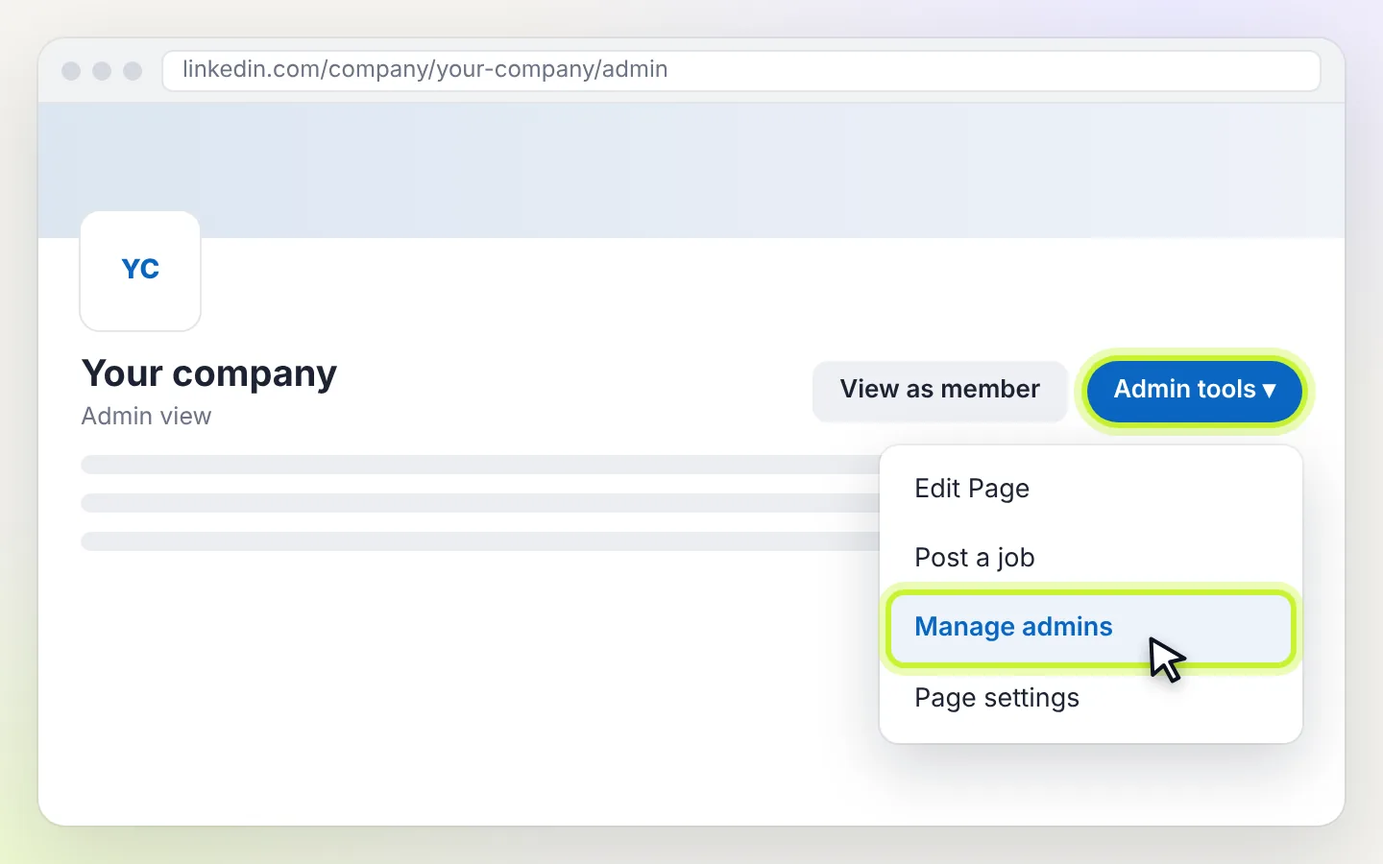
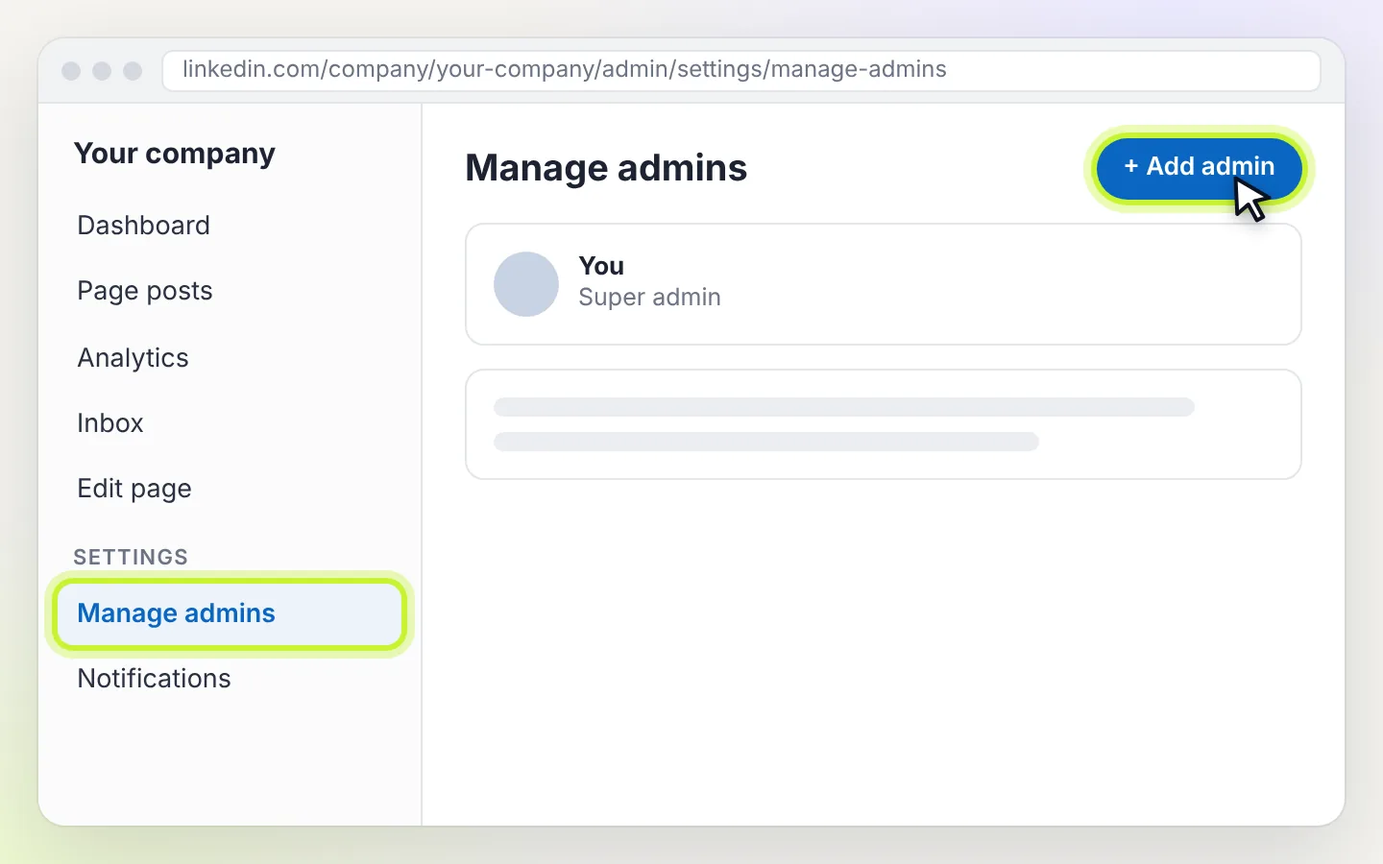
Portal LinkedIn steps: who does it, and the Nawa person to add
- Four steps: the company page's Super admin, from their personal account,
  first connects with the Nawa person (LinkedIn only lets you add your
  connections as admins); then Settings → Manage admins → + Add admin;
  searches that person by name (a person, not the «Nawa Studio» page,
  which LinkedIn never lists) and gives Content admin; then tells Nawa
- The Nawa person's name and LinkedIn profile link are set in admin
  «الإعدادات» → «معلومات التواصل» and shown in the steps with a link
- Redrawn LinkedIn illustrations: Manage admins in the page's Settings, and
  the search finding a person (1st) with Content admin chosen

Claude-Session: https://claude.ai/code/session_013mdqmQCdncwjDBDUVvHTuE

diff --git a/site/assets/js/portal.js b/site/assets/js/portal.js
@@ -2,7 +2,7 @@
 // of Facebook, Instagram, LinkedIn and TikTok, and manage content with Nawa's own tools
 // (assets/js/admin-content.js, loaded by the page in client mode).
 // Arabic by default; English and French from the switcher (remembered on this device).
-import { PLATFORMS, PLATFORM_ORDER, STATUS, LANGS, L, icon, copyButton } from './portal-schema.js?v=20261023b';
+import { PLATFORMS, PLATFORM_ORDER, STATUS, LANGS, L, icon, copyButton } from './portal-schema.js?v=20261103d';
 
 const $ = (id) => document.getElementById(id);
 const esc = (s) => String(s ?? '').replace(/[&<>"]/g, (c) => ({ '&': '&amp;', '<': '&lt;', '>': '&gt;', '"': '&quot;' })[c]);
@@ -68,7 +68,7 @@ const TS = {
     cloudSoon: 'قريبًا: تواصل مع نواة لتفعيله.', cloudNotEmpty: 'لا يمكن الإيقاف وفيه ملفات. احذفها أولًا.',
     invMonth: 'الشهر', invGb: 'متوسط التخزين', invAmount: 'المبلغ', invStatus: 'الحالة', paid: 'مدفوعة', unpaid: 'غير مدفوعة', void: 'ملغاة',
     baridimob: 'بريدي موب (RIP)', ccp: 'الحساب البريدي الجاري (CCP)', ccpName: 'الاسم', ccpAccount: 'رقم الحساب', ccpKey: 'المفتاح', redotpay: 'RedotPay', uid: 'UID', email2: 'البريد',
-    copy: 'نسخ', copied: 'نُسخ', aiTitle: 'المساعد الذكي · Claude', aiSub: 'يقترح منشورات وأنت توافق', aiOn: 'مربوط', aiLead: 'اربط Claude بحسابك ليقترح منشوراتك ويكتب نصوصها. يُنشئ Claude مسودات فقط، ولا يُنشر شيء قبل موافقتك من «المحتوى».', aiCan: 'يستطيع: قراءة تقويمك ومنصاتك، وإنشاء مسودات بنصوصها وموعد مقترح، ورفع الفيديوهات والصور إليها، وحذف المنشورات (تبقى 30 يومًا في «المحذوفات» ويمكنك استعادتها).', aiCant: 'لا يستطيع: الجدولة أو النشر، ولا رؤية المدفوعات أو الإعدادات.', aiCreate: 'إنشاء رابط Claude', aiYourLink: 'رابطك الخاص', aiOnce: 'انسخ الرابط الآن: لن يظهر مرة أخرى. عامله ككلمة سر ولا تشاركه.', aiSteps: ['افتح claude.ai ← الإعدادات (Settings) ← الموصلات (Connectors).', 'اضغط «Add custom connector»، واكتب الاسم «Nawa»، والصق الرابط، ثم «Add».', 'في محادثتك أو مشروعك، فعّل موصل Nawa من زر الأدوات.', 'اطلب مثلًا: «اقترح 3 منشورات لهذا الأسبوع وأضفها إلى نواة كمسودات».', 'ليرفع Claude الفيديوهات والصور التي ترسلها في المحادثة بنفسه: في Claude ← الإعدادات ← Capabilities، فعّل «Code execution» واسمح بالوصول إلى الشبكة («All domains»).'], aiLinked: (w, d) => `أنشأه ${w} في ${d}`, aiUsed: (d) => `آخر استعمال ${d}`, aiNever: 'لم يُستعمل بعد', aiDrafts: (n) => `${n} مسودة`, aiNew: 'رابط جديد', aiNewConfirm: 'تأكيد: الرابط القديم سيتوقف', aiRevoke: 'إلغاء الرابط', aiRevokeConfirm: 'تأكيد الإلغاء', aiPendingTitle: (n) => `${n} مقترحات من Claude بانتظار موافقتك`, prefTitle: 'أين تُحفظ الملفات الجديدة؟', prefAuto: 'تلقائي', prefAutoNote: 'Google Drive أولًا مجانًا، ثم «تخزين نواة» عند امتلائه.', prefCloud: '«تخزين نواة» دائمًا', prefCloudNote: 'كل الملفات الجديدة تُحفظ في تخزين نواة.', recommended: 'موصى به', whyTitle: 'لماذا نوصي به؟', why: ['نشر لا يتعطّل: منشوراتك المجدولة لا تتأثر بفصل Google Drive أو حذف ملف منه أو انتهاء صلاحية حساب Google.', 'مساحة Google تبقى لك: الـ15 غيغابايت المجانية مشتركة مع Gmail وصور Google.', 'كل ملفاتك في مكان واحد، وتدفع فقط مقابل ما تخزّنه.'], prefSavedAuto: 'تُحفظ الملفات الجديدة في Google Drive أولًا.', prefSavedCloud: 'تُحفظ الملفات الجديدة في «تخزين نواة».', driveAlmostCloud: (p) => `مساحة Google Drive شارفت على الامتلاء. ستُحفظ الملفات الجديدة في «تخزين نواة» بسعر ${p} دج لكل غيغابايت شهريًا.`, driveAlmostOff: 'مساحة Google Drive شارفت على الامتلاء. اختر خطة «تخزين نواة» لتواصل الرفع بعد امتلائها.', moveTitle: 'نقل ملفاتك إلى «تخزين نواة»', moveLead: (n) => `${n} ملف في Google Drive. ننسخها إلى تخزين نواة ثم ننقلها إلى سلة Drive (تبقى قابلة للاسترجاع 30 يومًا).`, moveBtn: 'انقل ملفاتي', moveConfirm: 'تأكيد النقل', moving: (a, b) => `نُقل ${a}، وبقي ${b}…`, moveDone: (n) => `نُقل ${n} ملف إلى «تخزين نواة».`, moveSome: (a, b) => `نُقل ${a} ملف، وتعذّر نقل ${b}. حاول مرة أخرى لاحقًا.`, e_cloud_off: 'فعّل «تخزين نواة» أولًا.', mark: (n) => `علّم الخطوة ${n} كمنجزة`, unmark: (n) => `ألغِ إنجاز الخطوة ${n}`, stepsCount: (a, b) => `${a} من ${b} خطوات منجزة`, afterFb: 'يُفعَّل إنستغرام عبر صفحتك على فيسبوك، فابدأ بفيسبوك أولًا.', afterFbShort: 'بعد فيسبوك', goFb: 'اذهب إلى فيسبوك', tellLead: 'أنهيت الخطوات؟ أخبرنا لنتحقق ونفعّل المنصة.', tellNawa: 'أنهيت، أخبر نواة', reviewing: 'وصلنا إشعارك ✓ نتحقق الآن ونفعّل المنصة قريبًا.', activeLine: (n) => `${n} مفعّل`, stepsAgain: 'عرض الخطوات من جديد', allSetTitle: 'كل منصاتك جاهزة 🎉', goContent: 'اذهب إلى «المحتوى»', shotOpen: 'تكبير الصورة', shotNote: 'صورة توضيحية، وقد تختلف الواجهة قليلًا.', close: 'إغلاق', d_connected: 'رُبط Google Drive.', d_denied: 'لم تكتمل الموافقة على Google Drive.', d_failed: 'تعذّر ربط Google Drive. حاول مرة أخرى.',
+    copy: 'نسخ', copied: 'نُسخ', nawaPersonFallback: 'الشخص الذي يحدده لك فريق نواة', profileLink: 'ملفه على LinkedIn', aiTitle: 'المساعد الذكي · Claude', aiSub: 'يقترح منشورات وأنت توافق', aiOn: 'مربوط', aiLead: 'اربط Claude بحسابك ليقترح منشوراتك ويكتب نصوصها. يُنشئ Claude مسودات فقط، ولا يُنشر شيء قبل موافقتك من «المحتوى».', aiCan: 'يستطيع: قراءة تقويمك ومنصاتك، وإنشاء مسودات بنصوصها وموعد مقترح، ورفع الفيديوهات والصور إليها، وحذف المنشورات (تبقى 30 يومًا في «المحذوفات» ويمكنك استعادتها).', aiCant: 'لا يستطيع: الجدولة أو النشر، ولا رؤية المدفوعات أو الإعدادات.', aiCreate: 'إنشاء رابط Claude', aiYourLink: 'رابطك الخاص', aiOnce: 'انسخ الرابط الآن: لن يظهر مرة أخرى. عامله ككلمة سر ولا تشاركه.', aiSteps: ['افتح claude.ai ← الإعدادات (Settings) ← الموصلات (Connectors).', 'اضغط «Add custom connector»، واكتب الاسم «Nawa»، والصق الرابط، ثم «Add».', 'في محادثتك أو مشروعك، فعّل موصل Nawa من زر الأدوات.', 'اطلب مثلًا: «اقترح 3 منشورات لهذا الأسبوع وأضفها إلى نواة كمسودات».', 'ليرفع Claude الفيديوهات والصور التي ترسلها في المحادثة بنفسه: في Claude ← الإعدادات ← Capabilities، فعّل «Code execution» واسمح بالوصول إلى الشبكة («All domains»).'], aiLinked: (w, d) => `أنشأه ${w} في ${d}`, aiUsed: (d) => `آخر استعمال ${d}`, aiNever: 'لم يُستعمل بعد', aiDrafts: (n) => `${n} مسودة`, aiNew: 'رابط جديد', aiNewConfirm: 'تأكيد: الرابط القديم سيتوقف', aiRevoke: 'إلغاء الرابط', aiRevokeConfirm: 'تأكيد الإلغاء', aiPendingTitle: (n) => `${n} مقترحات من Claude بانتظار موافقتك`, prefTitle: 'أين تُحفظ الملفات الجديدة؟', prefAuto: 'تلقائي', prefAutoNote: 'Google Drive أولًا مجانًا، ثم «تخزين نواة» عند امتلائه.', prefCloud: '«تخزين نواة» دائمًا', prefCloudNote: 'كل الملفات الجديدة تُحفظ في تخزين نواة.', recommended: 'موصى به', whyTitle: 'لماذا نوصي به؟', why: ['نشر لا يتعطّل: منشوراتك المجدولة لا تتأثر بفصل Google Drive أو حذف ملف منه أو انتهاء صلاحية حساب Google.', 'مساحة Google تبقى لك: الـ15 غيغابايت المجانية مشتركة مع Gmail وصور Google.', 'كل ملفاتك في مكان واحد، وتدفع فقط مقابل ما تخزّنه.'], prefSavedAuto: 'تُحفظ الملفات الجديدة في Google Drive أولًا.', prefSavedCloud: 'تُحفظ الملفات الجديدة في «تخزين نواة».', driveAlmostCloud: (p) => `مساحة Google Drive شارفت على الامتلاء. ستُحفظ الملفات الجديدة في «تخزين نواة» بسعر ${p} دج لكل غيغابايت شهريًا.`, driveAlmostOff: 'مساحة Google Drive شارفت على الامتلاء. اختر خطة «تخزين نواة» لتواصل الرفع بعد امتلائها.', moveTitle: 'نقل ملفاتك إلى «تخزين نواة»', moveLead: (n) => `${n} ملف في Google Drive. ننسخها إلى تخزين نواة ثم ننقلها إلى سلة Drive (تبقى قابلة للاسترجاع 30 يومًا).`, moveBtn: 'انقل ملفاتي', moveConfirm: 'تأكيد النقل', moving: (a, b) => `نُقل ${a}، وبقي ${b}…`, moveDone: (n) => `نُقل ${n} ملف إلى «تخزين نواة».`, moveSome: (a, b) => `نُقل ${a} ملف، وتعذّر نقل ${b}. حاول مرة أخرى لاحقًا.`, e_cloud_off: 'فعّل «تخزين نواة» أولًا.', mark: (n) => `علّم الخطوة ${n} كمنجزة`, unmark: (n) => `ألغِ إنجاز الخطوة ${n}`, stepsCount: (a, b) => `${a} من ${b} خطوات منجزة`, afterFb: 'يُفعَّل إنستغرام عبر صفحتك على فيسبوك، فابدأ بفيسبوك أولًا.', afterFbShort: 'بعد فيسبوك', goFb: 'اذهب إلى فيسبوك', tellLead: 'أنهيت الخطوات؟ أخبرنا لنتحقق ونفعّل المنصة.', tellNawa: 'أنهيت، أخبر نواة', reviewing: 'وصلنا إشعارك ✓ نتحقق الآن ونفعّل المنصة قريبًا.', activeLine: (n) => `${n} مفعّل`, stepsAgain: 'عرض الخطوات من جديد', allSetTitle: 'كل منصاتك جاهزة 🎉', goContent: 'اذهب إلى «المحتوى»', shotOpen: 'تكبير الصورة', shotNote: 'صورة توضيحية، وقد تختلف الواجهة قليلًا.', close: 'إغلاق', d_connected: 'رُبط Google Drive.', d_denied: 'لم تكتمل الموافقة على Google Drive.', d_failed: 'تعذّر ربط Google Drive. حاول مرة أخرى.',
   },
   en: {
     tabStorage: 'Storage', stTitle: 'Where your photos and videos are kept', stLead: 'We keep your files in your own Google Drive for free, up to 15 GB. Once it’s full, new files go to “Nawa storage” if you turn it on; older files stay where they are.',
@@ -86,7 +86,7 @@ const TS = {
     cloudSoon: 'Coming soon: contact Nawa to turn it on.', cloudNotEmpty: 'It can’t be turned off while files are stored. Delete them first.',
     invMonth: 'Month', invGb: 'Average stored', invAmount: 'Amount', invStatus: 'Status', paid: 'Paid', unpaid: 'Unpaid', void: 'Void',
     baridimob: 'BaridiMob (RIP)', ccp: 'Postal account (CCP)', ccpName: 'Name', ccpAccount: 'Account number', ccpKey: 'Key', redotpay: 'RedotPay', uid: 'UID', email2: 'Email',
-    copy: 'Copy', copied: 'Copied', aiTitle: 'AI assistant · Claude', aiSub: 'It suggests posts, you approve', aiOn: 'Connected', aiLead: 'Connect Claude to your account to suggest posts and write their captions. Claude only creates drafts; nothing is published until you approve it in “Content”.', aiCan: 'It can: read your calendar and platforms, create drafts with captions and a suggested time, upload videos and images to them, and delete posts (they stay 30 days in “Deleted”, where you can restore them).', aiCant: 'It can’t: schedule or publish, or see payments or settings.', aiCreate: 'Create a Claude link', aiYourLink: 'Your private link', aiOnce: 'Copy the link now: it won’t be shown again. Treat it like a password and don’t share it.', aiSteps: ['Open claude.ai → Settings → Connectors.', 'Click “Add custom connector”, name it “Nawa”, paste the link, then “Add”.', 'In your chat or project, turn on the Nawa connector from the tools button.', 'Ask for example: “Suggest 3 posts for this week and add them to Nawa as drafts.”', 'So Claude can upload the videos and images you send in the chat itself: in Claude → Settings → Capabilities, turn on “Code execution” and allow network access (“All domains”).'], aiLinked: (w, d) => `created by ${w} on ${d}`, aiUsed: (d) => `last used ${d}`, aiNever: 'not used yet', aiDrafts: (n) => `${n} drafts`, aiNew: 'New link', aiNewConfirm: 'Confirm: the old link stops', aiRevoke: 'Revoke link', aiRevokeConfirm: 'Confirm revoke', aiPendingTitle: (n) => `${n} proposals from Claude waiting for your approval`, prefTitle: 'Where should new files go?', prefAuto: 'Automatic', prefAutoNote: 'Google Drive first, for free, then Nawa Storage once it’s full.', prefCloud: 'Always Nawa Storage', prefCloudNote: 'Every new file is saved in Nawa Storage.', recommended: 'Recommended', whyTitle: 'Why we recommend it', why: ['Publishing never breaks: scheduled posts aren’t affected if Google Drive is disconnected, a file is deleted there, or the Google sign-in expires.', 'Your Google space stays yours: the free 15 GB is shared with Gmail and Google Photos.', 'All your files in one place, and you only pay for what you store.'], prefSavedAuto: 'New files go to Google Drive first.', prefSavedCloud: 'New files go to Nawa Storage.', driveAlmostCloud: (p) => `Your Google Drive is almost full. New files will go to Nawa Storage at ${p} DZD per GB per month.`, driveAlmostOff: 'Your Google Drive is almost full. Choose a Nawa Storage plan to keep uploading once it’s full.', moveTitle: 'Move your files to Nawa Storage', moveLead: (n) => `${n} files are in Google Drive. We copy them to Nawa Storage, then move them to your Drive trash (recoverable for 30 days).`, moveBtn: 'Move my files', moveConfirm: 'Confirm move', moving: (a, b) => `${a} moved, ${b} left…`, moveDone: (n) => `${n} files moved to Nawa Storage.`, moveSome: (a, b) => `${a} files moved, ${b} couldn’t be moved. Please try again later.`, e_cloud_off: 'Turn on Nawa Storage first.', mark: (n) => `Mark step ${n} as done`, unmark: (n) => `Mark step ${n} as not done`, stepsCount: (a, b) => `${a} of ${b} steps done`, afterFb: 'Instagram is activated through your Facebook Page, so start with Facebook first.', afterFbShort: 'After Facebook', goFb: 'Go to Facebook', tellLead: 'Finished the steps? Let us know and we’ll check and turn it on.', tellNawa: 'I’m done, tell Nawa', reviewing: 'We got your note ✓ We’re checking and will turn it on soon.', activeLine: (n) => `${n} is active`, stepsAgain: 'Show the steps again', allSetTitle: 'All your platforms are ready 🎉', goContent: 'Go to “Content”', shotOpen: 'Enlarge picture', shotNote: 'Illustration: the real screen may look slightly different.', close: 'Close', d_connected: 'Google Drive connected.', d_denied: 'Google Drive approval wasn’t completed.', d_failed: 'Couldn’t connect Google Drive. Please try again.',
+    copy: 'Copy', copied: 'Copied', nawaPersonFallback: 'the person the Nawa team tells you', profileLink: 'LinkedIn profile', aiTitle: 'AI assistant · Claude', aiSub: 'It suggests posts, you approve', aiOn: 'Connected', aiLead: 'Connect Claude to your account to suggest posts and write their captions. Claude only creates drafts; nothing is published until you approve it in “Content”.', aiCan: 'It can: read your calendar and platforms, create drafts with captions and a suggested time, upload videos and images to them, and delete posts (they stay 30 days in “Deleted”, where you can restore them).', aiCant: 'It can’t: schedule or publish, or see payments or settings.', aiCreate: 'Create a Claude link', aiYourLink: 'Your private link', aiOnce: 'Copy the link now: it won’t be shown again. Treat it like a password and don’t share it.', aiSteps: ['Open claude.ai → Settings → Connectors.', 'Click “Add custom connector”, name it “Nawa”, paste the link, then “Add”.', 'In your chat or project, turn on the Nawa connector from the tools button.', 'Ask for example: “Suggest 3 posts for this week and add them to Nawa as drafts.”', 'So Claude can upload the videos and images you send in the chat itself: in Claude → Settings → Capabilities, turn on “Code execution” and allow network access (“All domains”).'], aiLinked: (w, d) => `created by ${w} on ${d}`, aiUsed: (d) => `last used ${d}`, aiNever: 'not used yet', aiDrafts: (n) => `${n} drafts`, aiNew: 'New link', aiNewConfirm: 'Confirm: the old link stops', aiRevoke: 'Revoke link', aiRevokeConfirm: 'Confirm revoke', aiPendingTitle: (n) => `${n} proposals from Claude waiting for your approval`, prefTitle: 'Where should new files go?', prefAuto: 'Automatic', prefAutoNote: 'Google Drive first, for free, then Nawa Storage once it’s full.', prefCloud: 'Always Nawa Storage', prefCloudNote: 'Every new file is saved in Nawa Storage.', recommended: 'Recommended', whyTitle: 'Why we recommend it', why: ['Publishing never breaks: scheduled posts aren’t affected if Google Drive is disconnected, a file is deleted there, or the Google sign-in expires.', 'Your Google space stays yours: the free 15 GB is shared with Gmail and Google Photos.', 'All your files in one place, and you only pay for what you store.'], prefSavedAuto: 'New files go to Google Drive first.', prefSavedCloud: 'New files go to Nawa Storage.', driveAlmostCloud: (p) => `Your Google Drive is almost full. New files will go to Nawa Storage at ${p} DZD per GB per month.`, driveAlmostOff: 'Your Google Drive is almost full. Choose a Nawa Storage plan to keep uploading once it’s full.', moveTitle: 'Move your files to Nawa Storage', moveLead: (n) => `${n} files are in Google Drive. We copy them to Nawa Storage, then move them to your Drive trash (recoverable for 30 days).`, moveBtn: 'Move my files', moveConfirm: 'Confirm move', moving: (a, b) => `${a} moved, ${b} left…`, moveDone: (n) => `${n} files moved to Nawa Storage.`, moveSome: (a, b) => `${a} files moved, ${b} couldn’t be moved. Please try again later.`, e_cloud_off: 'Turn on Nawa Storage first.', mark: (n) => `Mark step ${n} as done`, unmark: (n) => `Mark step ${n} as not done`, stepsCount: (a, b) => `${a} of ${b} steps done`, afterFb: 'Instagram is activated through your Facebook Page, so start with Facebook first.', afterFbShort: 'After Facebook', goFb: 'Go to Facebook', tellLead: 'Finished the steps? Let us know and we’ll check and turn it on.', tellNawa: 'I’m done, tell Nawa', reviewing: 'We got your note ✓ We’re checking and will turn it on soon.', activeLine: (n) => `${n} is active`, stepsAgain: 'Show the steps again', allSetTitle: 'All your platforms are ready 🎉', goContent: 'Go to “Content”', shotOpen: 'Enlarge picture', shotNote: 'Illustration: the real screen may look slightly different.', close: 'Close', d_connected: 'Google Drive connected.', d_denied: 'Google Drive approval wasn’t completed.', d_failed: 'Couldn’t connect Google Drive. Please try again.',
   },
   fr: {
     tabStorage: 'Stockage', stTitle: 'Où sont gardées vos photos et vidéos', stLead: 'Nous gardons vos fichiers dans votre propre Google Drive gratuitement, jusqu’à 15 Go. Une fois plein, les nouveaux fichiers vont dans « Stockage Nawa » si vous l’activez ; les anciens restent en place.',
@@ -104,7 +104,7 @@ const TS = {
     cloudSoon: 'Bientôt : contactez Nawa pour l’activer.', cloudNotEmpty: 'Impossible de le désactiver tant que des fichiers y sont stockés.',
     invMonth: 'Mois', invGb: 'Stockage moyen', invAmount: 'Montant', invStatus: 'Statut', paid: 'Payée', unpaid: 'Non payée', void: 'Annulée',
     baridimob: 'BaridiMob (RIP)', ccp: 'Compte postal (CCP)', ccpName: 'Nom', ccpAccount: 'Numéro de compte', ccpKey: 'Clé', redotpay: 'RedotPay', uid: 'UID', email2: 'E-mail',
-    copy: 'Copier', copied: 'Copié', aiTitle: 'Assistant IA · Claude', aiSub: 'Il propose, vous validez', aiOn: 'Connecté', aiLead: 'Connectez Claude à votre compte pour proposer des publications et rédiger leurs textes. Claude ne crée que des brouillons ; rien n’est publié avant votre validation dans « Contenu ».', aiCan: 'Il peut : lire votre calendrier et vos plateformes, créer des brouillons avec textes et horaire suggéré, y importer vidéos et images, et supprimer des publications (elles restent 30 jours dans « Supprimés », restaurables).', aiCant: 'Il ne peut pas : planifier ou publier, ni voir les paiements ou les réglages.', aiCreate: 'Créer un lien Claude', aiYourLink: 'Votre lien privé', aiOnce: 'Copiez le lien maintenant : il ne sera plus affiché. Traitez-le comme un mot de passe.', aiSteps: ['Ouvrez claude.ai → Settings → Connectors.', 'Cliquez sur « Add custom connector », nommez-le « Nawa », collez le lien, puis « Add ».', 'Dans votre conversation ou projet, activez le connecteur Nawa depuis le bouton des outils.', 'Demandez par exemple : « Propose 3 publications pour cette semaine et ajoute-les à Nawa en brouillon. »', 'Pour que Claude importe lui-même les vidéos et images envoyées dans la conversation : dans Claude → Settings → Capabilities, activez « Code execution » et autorisez l’accès réseau (« All domains »).'], aiLinked: (w, d) => `créé par ${w} le ${d}`, aiUsed: (d) => `utilisé le ${d}`, aiNever: 'pas encore utilisé', aiDrafts: (n) => `${n} brouillons`, aiNew: 'Nouveau lien', aiNewConfirm: 'Confirmer : l’ancien lien s’arrête', aiRevoke: 'Révoquer le lien', aiRevokeConfirm: 'Confirmer la révocation', aiPendingTitle: (n) => `${n} propositions de Claude attendent votre validation`, prefTitle: 'Où enregistrer les nouveaux fichiers ?', prefAuto: 'Automatique', prefAutoNote: 'Google Drive d’abord, gratuitement, puis le Stockage Nawa quand il est plein.', prefCloud: 'Toujours le Stockage Nawa', prefCloudNote: 'Tous les nouveaux fichiers sont enregistrés dans le Stockage Nawa.', recommended: 'Recommandé', whyTitle: 'Pourquoi nous le recommandons', why: ['Une publication qui ne casse pas : vos publications planifiées ne sont pas touchées si Google Drive est déconnecté, si un fichier y est supprimé ou si la connexion Google expire.', 'Votre espace Google reste à vous : les 15 Go gratuits sont partagés avec Gmail et Google Photos.', 'Tous vos fichiers au même endroit, et vous ne payez que ce que vous stockez.'], prefSavedAuto: 'Les nouveaux fichiers vont d’abord dans Google Drive.', prefSavedCloud: 'Les nouveaux fichiers vont dans le Stockage Nawa.', driveAlmostCloud: (p) => `Votre Google Drive est presque plein. Les nouveaux fichiers iront dans le Stockage Nawa à ${p} DA par Go et par mois.`, driveAlmostOff: 'Votre Google Drive est presque plein. Choisissez un forfait Stockage Nawa pour continuer une fois plein.', moveTitle: 'Déplacer vos fichiers vers le Stockage Nawa', moveLead: (n) => `${n} fichiers sont dans Google Drive. Nous les copions dans le Stockage Nawa, puis les mettons dans la corbeille de Drive (récupérables 30 jours).`, moveBtn: 'Déplacer mes fichiers', moveConfirm: 'Confirmer le déplacement', moving: (a, b) => `${a} déplacés, ${b} restants…`, moveDone: (n) => `${n} fichiers déplacés vers le Stockage Nawa.`, moveSome: (a, b) => `${a} fichiers déplacés, ${b} n’ont pas pu l’être. Réessayez plus tard.`, e_cloud_off: 'Activez d’abord le Stockage Nawa.', mark: (n) => `Marquer l’étape ${n} comme faite`, unmark: (n) => `Marquer l’étape ${n} comme non faite`, stepsCount: (a, b) => `${a} étapes faites sur ${b}`, afterFb: 'Instagram s’active via votre Page Facebook : commencez par Facebook.', afterFbShort: 'Après Facebook', goFb: 'Aller à Facebook', tellLead: 'Étapes terminées ? Prévenez-nous, nous vérifions et activons la plateforme.', tellNawa: 'C’est fait, prévenir Nawa', reviewing: 'Bien reçu ✓ Nous vérifions et activons la plateforme bientôt.', activeLine: (n) => `${n} est activé`, stepsAgain: 'Revoir les étapes', allSetTitle: 'Toutes vos plateformes sont prêtes 🎉', goContent: 'Aller à « Contenu »', shotOpen: 'Agrandir l’image', shotNote: 'Illustration : l’écran réel peut légèrement différer.', close: 'Fermer', d_connected: 'Google Drive connecté.', d_denied: 'L’autorisation Google Drive n’a pas abouti.', d_failed: 'Connexion à Google Drive impossible. Réessayez.',
+    copy: 'Copier', copied: 'Copié', nawaPersonFallback: 'la personne indiquée par l’équipe Nawa', profileLink: 'profil LinkedIn', aiTitle: 'Assistant IA · Claude', aiSub: 'Il propose, vous validez', aiOn: 'Connecté', aiLead: 'Connectez Claude à votre compte pour proposer des publications et rédiger leurs textes. Claude ne crée que des brouillons ; rien n’est publié avant votre validation dans « Contenu ».', aiCan: 'Il peut : lire votre calendrier et vos plateformes, créer des brouillons avec textes et horaire suggéré, y importer vidéos et images, et supprimer des publications (elles restent 30 jours dans « Supprimés », restaurables).', aiCant: 'Il ne peut pas : planifier ou publier, ni voir les paiements ou les réglages.', aiCreate: 'Créer un lien Claude', aiYourLink: 'Votre lien privé', aiOnce: 'Copiez le lien maintenant : il ne sera plus affiché. Traitez-le comme un mot de passe.', aiSteps: ['Ouvrez claude.ai → Settings → Connectors.', 'Cliquez sur « Add custom connector », nommez-le « Nawa », collez le lien, puis « Add ».', 'Dans votre conversation ou projet, activez le connecteur Nawa depuis le bouton des outils.', 'Demandez par exemple : « Propose 3 publications pour cette semaine et ajoute-les à Nawa en brouillon. »', 'Pour que Claude importe lui-même les vidéos et images envoyées dans la conversation : dans Claude → Settings → Capabilities, activez « Code execution » et autorisez l’accès réseau (« All domains »).'], aiLinked: (w, d) => `créé par ${w} le ${d}`, aiUsed: (d) => `utilisé le ${d}`, aiNever: 'pas encore utilisé', aiDrafts: (n) => `${n} brouillons`, aiNew: 'Nouveau lien', aiNewConfirm: 'Confirmer : l’ancien lien s’arrête', aiRevoke: 'Révoquer le lien', aiRevokeConfirm: 'Confirmer la révocation', aiPendingTitle: (n) => `${n} propositions de Claude attendent votre validation`, prefTitle: 'Où enregistrer les nouveaux fichiers ?', prefAuto: 'Automatique', prefAutoNote: 'Google Drive d’abord, gratuitement, puis le Stockage Nawa quand il est plein.', prefCloud: 'Toujours le Stockage Nawa', prefCloudNote: 'Tous les nouveaux fichiers sont enregistrés dans le Stockage Nawa.', recommended: 'Recommandé', whyTitle: 'Pourquoi nous le recommandons', why: ['Une publication qui ne casse pas : vos publications planifiées ne sont pas touchées si Google Drive est déconnecté, si un fichier y est supprimé ou si la connexion Google expire.', 'Votre espace Google reste à vous : les 15 Go gratuits sont partagés avec Gmail et Google Photos.', 'Tous vos fichiers au même endroit, et vous ne payez que ce que vous stockez.'], prefSavedAuto: 'Les nouveaux fichiers vont d’abord dans Google Drive.', prefSavedCloud: 'Les nouveaux fichiers vont dans le Stockage Nawa.', driveAlmostCloud: (p) => `Votre Google Drive est presque plein. Les nouveaux fichiers iront dans le Stockage Nawa à ${p} DA par Go et par mois.`, driveAlmostOff: 'Votre Google Drive est presque plein. Choisissez un forfait Stockage Nawa pour continuer une fois plein.', moveTitle: 'Déplacer vos fichiers vers le Stockage Nawa', moveLead: (n) => `${n} fichiers sont dans Google Drive. Nous les copions dans le Stockage Nawa, puis les mettons dans la corbeille de Drive (récupérables 30 jours).`, moveBtn: 'Déplacer mes fichiers', moveConfirm: 'Confirmer le déplacement', moving: (a, b) => `${a} déplacés, ${b} restants…`, moveDone: (n) => `${n} fichiers déplacés vers le Stockage Nawa.`, moveSome: (a, b) => `${a} fichiers déplacés, ${b} n’ont pas pu l’être. Réessayez plus tard.`, e_cloud_off: 'Activez d’abord le Stockage Nawa.', mark: (n) => `Marquer l’étape ${n} comme faite`, unmark: (n) => `Marquer l’étape ${n} comme non faite`, stepsCount: (a, b) => `${a} étapes faites sur ${b}`, afterFb: 'Instagram s’active via votre Page Facebook : commencez par Facebook.', afterFbShort: 'Après Facebook', goFb: 'Aller à Facebook', tellLead: 'Étapes terminées ? Prévenez-nous, nous vérifions et activons la plateforme.', tellNawa: 'C’est fait, prévenir Nawa', reviewing: 'Bien reçu ✓ Nous vérifions et activons la plateforme bientôt.', activeLine: (n) => `${n} est activé`, stepsAgain: 'Revoir les étapes', allSetTitle: 'Toutes vos plateformes sont prêtes 🎉', goContent: 'Aller à « Contenu »', shotOpen: 'Agrandir l’image', shotNote: 'Illustration : l’écran réel peut légèrement différer.', close: 'Fermer', d_connected: 'Google Drive connecté.', d_denied: 'L’autorisation Google Drive n’a pas abouti.', d_failed: 'Connexion à Google Drive impossible. Réessayez.',
   },
 };
 for (const l of Object.keys(TS)) Object.assign(T[l], TS[l]);
@@ -202,9 +202,16 @@ const setTick = (k, i, on) => { const all = getTicks(); (all[k] ||= [])[i] = on;
 const blockedBy = (k, st) => (k === 'instagram' && st.facebook?.status !== 'active' ? 'facebook' : null);
 const nextPlatform = (st) => PLATFORM_ORDER.find((k) => st[k]?.status !== 'active' && !blockedBy(k, st)) || null;
 
+// the Nawa person a client adds as LinkedIn page admin (name + profile link from admin «الإعدادات»)
+function nawaPerson() {
+  const n = state.me?.nawa || {};
+  if (!n.linkedin_name) return `<b>${esc(t('nawaPersonFallback'))}</b>`;
+  return `<b>${esc(n.linkedin_name)}</b>${n.linkedin_url ? ` (<a href="${esc(n.linkedin_url)}" target="_blank" rel="noopener">${esc(t('profileLink'))} ↗</a>)` : ''}`;
+}
 function stepList(k, p, interactive) {
   const ticks = getTicks()[k] || [];
   return `<ol class="pt-steps">${L(p.steps, lang).map((x, i) => {
+    x = x.replaceAll('{person}', nawaPerson());
     const shot = p.shots?.[i];
     const alt = `${L(p.name, lang)} · ${i + 1}`;
     const on = Boolean(ticks[i]);

diff --git a/design/templates/guides.html b/design/templates/guides.html
@@ -137,21 +137,22 @@
         <div class="card"><div class="row"><span style="width:38px;height:38px;border-radius:10px;background:linear-gradient(45deg,#F58529,#DD2A7B,#8134AF)"></span><div><b>Instagram</b><div class="muted">Not connected</div></div><span class="sp"></span><span class="btn p hl">Connect account</span></div></div>
         <div class="card"><div class="row"><span style="width:38px;height:38px;border-radius:10px;background:#25D366"></span><div><b>WhatsApp</b><div class="muted">Optional</div></div></div></div></div>`),
 
-    'linkedin-1': () => browser('linkedin.com/company/your-company/admin', `<div class="main" style="padding:0">
-      <div style="height:70px;background:linear-gradient(90deg,#DCE6F2,#EEF2F8)"></div>
-      <div style="padding:0 22px;display:grid;gap:10px;margin-top:-26px">
-        <div class="row"><span style="width:62px;height:62px;border-radius:10px;background:#fff;border:3px solid #fff;box-shadow:0 0 0 1px var(--line);display:grid;place-items:center;font-weight:800;color:#0A66C2">YC</span></div>
-        <div class="row"><div><h3>Your company</h3><span class="muted">Admin view</span></div><span class="sp"></span><span class="btn">View as member</span><span class="btn li hl">Admin tools ▾</span></div>
-        ${ghost(3)}</div>
-      <div class="menu" style="top:178px;right:22px"><a>Edit Page</a><a>Post a job</a><a style="background:#EEF3FB;color:#0A66C2;font-weight:600" class="hl">Manage admins</a><a>Page settings</a></div></div>`),
+    // LinkedIn's page admin view: Settings → Manage admins → + Add admin
+    'linkedin-1': () => browser('linkedin.com/company/your-company/admin/settings/manage-admins', `<div class="side"><h4>Your company</h4>
+      <a>Dashboard</a><a>Page posts</a><a>Analytics</a><a>Inbox</a><a>Edit page</a>
+      <span class="grp">Settings</span><a class="on hl" style="background:#EEF3FB;color:#0A66C2">Manage admins</a><a>Notifications</a></div>
+      <div class="main"><div class="row"><h3>Manage admins</h3><span class="sp"></span><span class="btn li hl">+ Add admin</span></div>
+        <div class="card"><div class="row" style="font-size:13px"><span style="width:34px;height:34px;border-radius:50%;background:#C9D3E3"></span><div><b>You</b><div class="muted">Super admin</div></div></div></div>
+        <div class="card">${ghost(2)}</div></div>`),
 
+    // the search finds PEOPLE (1st-degree connections), never a company page
     'linkedin-2': () => browser('linkedin.com/company/your-company/admin/settings/manage-admins', `<div class="main">${ghost(5)}</div>
-      <div class="dim"><div class="modal"><h3>Add admin</h3>
-        <div class="field"><label>Search for a member</label><div class="input" style="font:500 14px inherit;letter-spacing:0">Nawa</div></div>
-        <div class="row" style="font-size:13px"><span style="width:30px;height:30px;border-radius:50%;background:#5B4BFF"></span><b>Nawa</b><span class="muted">· the account we send you</span></div>
-        <div style="display:grid;gap:9px;font-size:13.5px"><span class="muted">Page admin role</span>
+      <div class="dim"><div class="modal"><h3>Add page admin</h3>
+        <div class="field"><label>Search for a person (your connections)</label><div class="input" style="font:500 14px inherit;letter-spacing:0">Your Nawa contact</div></div>
+        <div class="row hl" style="font-size:13px;padding:6px;margin:-6px"><span style="width:32px;height:32px;border-radius:50%;background:linear-gradient(135deg,#5B4BFF,#9B8CFF);display:grid;place-items:center;color:#fff;font-weight:800">N</span><div><b>Your Nawa contact</b> <span class="muted">· 1st</span><div class="muted">Person · Nawa Studio</div></div></div>
+        <div style="display:grid;gap:9px;font-size:13.5px"><span class="muted">Assign an admin role</span>
           <span class="row"><i class="radio"></i>Super admin</span>
-          <span class="row hl" style="padding:6px;margin:-6px"><i class="radio on"></i><b>Content admin</b><span class="muted">post and manage content</span></span>
+          <span class="row hl" style="padding:6px;margin:-6px"><i class="radio on"></i><b>Content admin</b><span class="muted">posts and manages content</span></span>
           <span class="row"><i class="radio"></i>Analyst</span></div>
         <div class="foot"><span class="btn" style="border-radius:999px">Cancel</span><span class="btn li">Save</span></div></div></div>`),
 

diff --git a/site/assets/js/portal-schema.js b/site/assets/js/portal-schema.js
@@ -77,23 +77,27 @@ export const PLATFORMS = {
   },
   linkedin: {
     color: '#0A66C2', auto: false,
-    shots: ['linkedin-1', 'linkedin-2', null], // illustrations in /assets/guides/<name>.webp, one per step
+    shots: [null, 'linkedin-1', 'linkedin-2', null], // illustrations in /assets/guides/<name>.webp, one per step
     name: { ar: 'لينكدإن', en: 'LinkedIn', fr: 'LinkedIn' },
+    // {person}: the Nawa person to add as admin (name + profile link from admin «الإعدادات»)
     steps: {
       ar: [
-        'افتح صفحة شركتك على لينكدإن كمسؤول ← <b>أدوات المسؤول</b> ← إدارة المسؤولين.',
-        'أضف حساب نواة الذي نرسله لك بصلاحية <b>مسؤول المحتوى</b>.',
-        'أخبرنا عند الانتهاء: نتحقق ونفعّل المنصة.',
+        'يقوم بهذه الخطوات <b>مسؤول صفحة شركتك على LinkedIn</b> (Super admin) من حسابه الشخصي. أولًا أرسل <b>طلب تواصل (Connect)</b> إلى {person} وانتظر قبوله: LinkedIn لا يسمح بإضافة مسؤول إلا من جهات تواصلك.',
+        'افتح صفحة شركتك على LinkedIn ← <b>Settings</b> (أدوات المسؤول) ← <b>Manage admins</b> ← اضغط <b>«+ Add admin»</b>.',
+        'اكتب في البحث اسم {person}: <b>شخص وليس صفحة</b>. صفحة «Nawa Studio» لا تظهر في البحث لأن LinkedIn يقبل الأشخاص فقط مسؤولين. اختر الدور <b>Content admin</b> (مسؤول المحتوى) ثم <b>Save</b>.',
+        'اضغط «أنهيت، أخبر نواة» في الأسفل: نتحقق ونفعّل المنصة.',
       ],
       en: [
-        'Open your LinkedIn company page as an admin → <b>Admin tools</b> → Manage admins.',
-        'Add the Nawa account we send you as a <b>Content admin</b>.',
-        'Let us know when it’s done: we check and turn the platform on.',
+        'These steps are done by <b>your company page’s Super admin</b> on LinkedIn, from their personal account. First send a <b>connection request (Connect)</b> to {person} and wait until it’s accepted: LinkedIn only lets you add your own connections as admins.',
+        'Open your company page on LinkedIn → <b>Settings</b> (admin tools) → <b>Manage admins</b> → click <b>“+ Add admin”</b>.',
+        'Search for {person} by name: <b>a person, not a page</b>. The “Nawa Studio” page won’t appear, because LinkedIn only accepts people as admins. Choose the <b>Content admin</b> role, then <b>Save</b>.',
+        'Press “I’m done, tell Nawa” below: we check and turn the platform on.',
       ],
       fr: [
-        'Ouvrez la page de votre entreprise sur LinkedIn en tant qu’admin → <b>Outils d’administration</b> → Gérer les admins.',
-        'Ajoutez le compte Nawa que nous vous envoyons comme <b>admin de contenu</b>.',
-        'Prévenez-nous une fois terminé : nous vérifions et activons la plateforme.',
+        'Ces étapes sont faites par <b>le Super admin de la page de votre entreprise</b> sur LinkedIn, depuis son compte personnel. D’abord, envoyez une <b>demande de connexion (Se connecter)</b> à {person} et attendez qu’elle soit acceptée : LinkedIn n’autorise comme admins que vos relations.',
+        'Ouvrez la page de votre entreprise sur LinkedIn → <b>Paramètres</b> (outils d’administration) → <b>Gérer les admins</b> → cliquez sur <b>« + Ajouter un admin »</b>.',
+        'Recherchez {person} par son nom : <b>une personne, pas une page</b>. La page « Nawa Studio » n’apparaît pas, car LinkedIn n’accepte que des personnes comme admins. Choisissez le rôle <b>Admin de contenu</b>, puis <b>Enregistrer</b>.',
+        'Appuyez sur « C’est fait, prévenir Nawa » en bas : nous vérifions et activons la plateforme.',
       ],
     },
   },

diff --git a/site/assets/js/admin-settings.js b/site/assets/js/admin-settings.js
@@ -43,8 +43,13 @@ function render() {
       <h2>معلومات التواصل</h2>
       <p class="muted">البريد الذي يظهر للزوار في الموقع (زر «راسلنا» ونسخ البريد)، وفي نموذج الطلب وسياسة الخصوصية.</p>
       <div class="st-grid"><label class="ct-field"><span>بريد التواصل</span><input name="email" type="email" dir="ltr" maxlength="120" required value="${esc(s.contact?.email || '')}"></label></div>
+      <p class="muted">الشخص الذي يضيفه العملاء مسؤولًا (Content admin) على صفحة شركتهم في LinkedIn. يظهر اسمه ورابط ملفه في خطوات تفعيل LinkedIn في بوابة العملاء. LinkedIn يقبل الأشخاص فقط، لا الصفحات.</p>
+      <div class="st-grid">
+        <label class="ct-field"><span>الاسم كما يظهر على LinkedIn</span><input name="linkedin_name" maxlength="80" value="${esc(s.contact?.linkedin_name || '')}" placeholder="مثال: Zakaria Brahimi"></label>
+        <label class="ct-field"><span>رابط ملفه الشخصي</span><input name="linkedin_url" type="url" dir="ltr" maxlength="200" value="${esc(s.contact?.linkedin_url || '')}" placeholder="https://www.linkedin.com/in/…"></label>
+      </div>
       <p class="muted st-small">قد يستغرق ظهور التغيير في الموقع حتى 5 دقائق.</p>
-      <div class="ct-save"><button type="submit" class="btn btn-dark">حفظ البريد</button></div>
+      <div class="ct-save"><button type="submit" class="btn btn-dark">حفظ</button></div>
     </form>
 
     <form class="ct-card st-card" id="stPrice">
@@ -142,8 +147,9 @@ function render() {
   };
   $('stContact').onsubmit = async (e) => {
     e.preventDefault();
-    try { state.settings = (await call({ contact: { email: $('stContact').email.value } })).settings; render(); toast('حُفظ بريد التواصل.'); }
-    catch (err) { toast(err.code === 'bad_email' ? 'تحقّق من البريد.' : 'تعذّر الحفظ.', true); }
+    const f = $('stContact');
+    try { state.settings = (await call({ contact: { email: f.email.value, linkedin_name: f.linkedin_name.value, linkedin_url: f.linkedin_url.value } })).settings; render(); toast('حُفظت معلومات التواصل.'); }
+    catch (err) { toast(err.code === 'bad_email' ? 'تحقّق من البريد.' : err.code === 'bad_linkedin' ? 'رابط الملف يجب أن يكون مثل https://www.linkedin.com/in/الاسم' : 'تعذّر الحفظ.', true); }
   };
   $('stPay').onsubmit = async (e) => {
     e.preventDefault();

diff --git a/site/api/_lib/billing.js b/site/api/_lib/billing.js
@@ -12,7 +12,8 @@ import { kv, sb } from './supabase.js';
 
 export const DEFAULTS = { cost_usd: 0.015, fee_usd: 0.5, rate_dzd: 250 };
 export const PAYMENT_FIELDS = ['baridimob_rip', 'ccp_name', 'ccp_account', 'ccp_key', 'redotpay_uid', 'redotpay_email'];
-export const CONTACT_DEFAULTS = { email: 'nawa.studio.ai@gmail.com' };
+// email: shown on the site; linkedin_*: the Nawa person clients add as admin of their LinkedIn page
+export const CONTACT_DEFAULTS = { email: 'nawa.studio.ai@gmail.com', linkedin_name: '', linkedin_url: '' };
 // «تخزين نواة» plans: what the client can pick in the portal; Nawa sets the discounts
 export const PLAN_MONTHS = [1, 3, 6, 12];
 export const PLAN_DEFAULTS = {
@@ -59,6 +60,12 @@ export async function saveSettings(input) {
   }
   if (input.payment) for (const k of PAYMENT_FIELDS) if (input.payment[k] !== undefined) next.payment[k] = String(input.payment[k]).trim().slice(0, 120);
   if (input.plans) next.plans = cleanPlans({ ...cur.plans, ...input.plans });
+  if (input.contact?.linkedin_name !== undefined) next.contact = { ...next.contact, linkedin_name: String(input.contact.linkedin_name).trim().slice(0, 80) };
+  if (input.contact?.linkedin_url !== undefined) {
+    const url = String(input.contact.linkedin_url).trim().slice(0, 200);
+    if (url && !/^https:\/\/([a-z]{2,3}\.)?(www\.)?linkedin\.com\/in\/[^\s/?#]+\/?$/i.test(url)) throw Object.assign(new Error('bad_linkedin'), { code: 'bad_linkedin', field: 'linkedin_url' });
+    next.contact = { ...next.contact, linkedin_url: url };
+  }
   if (input.contact?.email !== undefined) {
     const email = String(input.contact.email).trim().toLowerCase().slice(0, 120);
     if (!EMAIL.test(email)) throw Object.assign(new Error('bad_email'), { code: 'bad_email', field: 'email' });

diff --git a/site/api/portal.js b/site/api/portal.js
@@ -79,6 +79,7 @@ export default async function handler(req, res) {
         user: { name: user.name, email: user.email, role: user.role },
         client: { name: client.name, industry: client.industry, city: client.city, website: client.website },
         status: platformStatus(client, pages),
+        nawa: await B.getSettings().then(({ contact }) => ({ linkedin_name: contact.linkedin_name, linkedin_url: contact.linkedin_url })).catch(() => ({})),
         proposals: await sb.select('client_content', `select=data&client_id=eq.${encodeURIComponent(client.id)}`).then(([r]) => (r?.data?.posts || []).filter((p) => p.proposal).length).catch(() => 0),
       });
     }

diff --git a/site/assets/js/admin-clients.js b/site/assets/js/admin-clients.js
@@ -1,6 +1,6 @@
 // /admin → «العملاء»: companies Nawa manages. Create a client with its first contact (who can then
 // sign in at /portal), follow each platform's activation, add or remove people, open its content.
-import { PLATFORMS, PLATFORM_ORDER, STATUS, MANUAL_STATUS, icon, L } from './portal-schema.js?v=20261023b';
+import { PLATFORMS, PLATFORM_ORDER, STATUS, MANUAL_STATUS, icon, L } from './portal-schema.js?v=20261103d';
 
 const $ = (id) => document.getElementById(id);
 const esc = (s) => String(s ?? '').replace(/[&<>"]/g, (c) => ({ '&': '&amp;', '<': '&lt;', '>': '&gt;', '"': '&quot;' })[c]);

diff --git a/site/assets/js/admin-content.js b/site/assets/js/admin-content.js
@@ -4,7 +4,7 @@
 // - /admin  (window.NAWA_CT unset): Nawa's own content, or any client's (the switcher at the top)
 // - /portal (window.NAWA_CT = { api: '/api/portal', mode: 'client' }): a client's own content
 import { PLATFORMS, PLATFORM_IDS, KINDS, STATUS, AUTO_PLATFORMS, captionFor, platformStatus, postStatus } from './content-schema.js?v=20261023b';
-import { COPY_ICON } from './portal-schema.js?v=20261023b';
+import { COPY_ICON } from './portal-schema.js?v=20261103d';
 import { STORY_SETS, storyFiles, storyCover } from './stories-schema.js?v=20261023b';
 
 const $ = (id) => document.getElementById(id);

diff --git a/site/portal.html b/site/portal.html
@@ -14,7 +14,7 @@
 <link rel="stylesheet" href="assets/css/admin.css?v=20261103b">
 <script>window.NAWA_CT = { api: '/api/portal', mode: 'client' };</script>
 <script src="assets/js/admin-ui.js?v=20261023b"></script>
-<script type="module" src="assets/js/portal.js?v=20261103b"></script>
+<script type="module" src="assets/js/portal.js?v=20261103d"></script>
 <script type="module" src="assets/js/admin-content.js?v=20261103c"></script>
 </head>
 <body class="admin-page portal-page">
